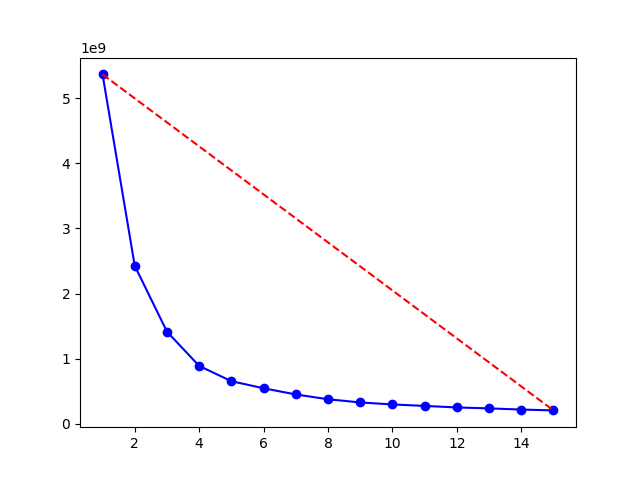
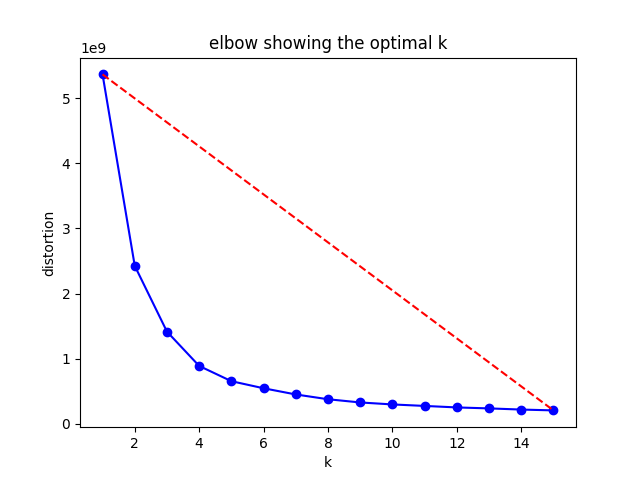
k elbow algorithm impl

Changed region(s): [[0.3125, 0.0625, 0.6875, 0.125], [0.0625, 0.4375, 0.0938, 0.5938], [0.5, 0.9375, 0.5312, 0.9688]]

diff --git a/cw/utils/elbow_k.py b/cw/utils/elbow_k.py
@@ -3,15 +3,15 @@
 
 import cv2
 import numpy as np
+import numpy.matlib
 import matplotlib.pyplot as plt
 
 image_path = '/Users/jstroop/workspace/colorweight/samples/01_in.jpg'
 
-CRITERIA = (cv2.TERM_CRITERIA_EPS + cv2.TERM_CRITERIA_MAX_ITER, 200, 1.0)
+CRITERIA = (cv2.TERM_CRITERIA_EPS + cv2.TERM_CRITERIA_MAX_ITER, 200, 1.0) # consider 1.0; may want lower?
 FLAGS = cv2.KMEANS_RANDOM_CENTERS
 
-def cluster(pixels, k):
-     return cv2.kmeans(pixels, k, None, CRITERIA, 10, FLAGS)
+K_MAX = 16 # higher (16?) for real use
 
 image_data = cv2.imread(image_path)
 arr = np.float32(image_data) # a 3d ndarray
@@ -19,17 +19,49 @@ pixels = arr.reshape((-1, 3))
 
 data = []
 
-for k in range(1, 16):
-    compactness, labels, centroids = cluster(pixels, k)
+for k in range(1, K_MAX+1):
+    compactness, labels, centroids = cv2.kmeans(pixels, k, None, CRITERIA, 10, FLAGS)
     data.append((k, compactness))
 
+def show_elbow(data):
+    ks = [e[0] for e in data]
+    dist = [e[1] for e in data]
+    plt.plot(ks, dist, 'bo-')
+    plt.plot((ks[0], ks[-1]), (dist[0], dist[-1]), 'r--')
+    plt.xlabel('k')
+    plt.ylabel('distortion')
+    plt.title('elbow showing the optimal k')
+    plt.show()
 
-ks = [e[0] for e in data]
-dist = [e[1] for e in data]
-plt.plot(ks, dist, 'bo-')
-plt.plot((ks[0], ks[-1]), (dist[0], dist[-1]), 'r--')
-plt.xlabel = 'K values'
-plt.ylabel = 'Distortions'
-plt.show()
+def find_best_k_index(dist_curve, debug=False):
+    # See: https://en.wikipedia.org/wiki/Vector_projection
+    # and: https://stackoverflow.com/a/37121355/714478
+    n_points = len(dist_curve) # could this be the ks instead?
+    all_coords = np.vstack((range(n_points), dist_curve)).T
+    np.array([range(n_points), dist_curve])
+    first_point = all_coords[0]
+    line_vector = all_coords[-1] - first_point
+    line_vector_norm = line_vector / np.sqrt(np.sum(line_vector**2))
+    vector_from_first = all_coords - first_point
+    scalar_prod = np.sum(vector_from_first * np.matlib.repmat(line_vector_norm, n_points, 1), axis=1)
+    vector_from_first_parallel = np.outer(scalar_prod, line_vector_norm)
+    vector_to_line = vector_from_first - vector_from_first_parallel
+    dist_to_line = np.sqrt(np.sum(vector_to_line ** 2, axis=1))
+    index_of_best_point = np.argmax(dist_to_line)
+    if debug:
+        print(f'Distortion curve: {dist_curve}')
+        print(f'All coords: {all_coords}')
+        print(f'First point: {first_point}')
+        print(f'Line vector: {line_vector}')
+        print(f'Line vector normalized: {line_vector_norm}')
+        print(f'Vector from first: {vector_from_first}')
+        print(f'Scalar product: {scalar_prod}')
+        print(f'Vector from first parallel: {vector_from_first_parallel}')
+        print(f'Vector to line: {vector_to_line}')
+        print(f'Distance to line: {dist_to_line}')
+        print(f'Index of best K: {index_of_best_point}')
+    return index_of_best_point
 
-# TODO: use this to find the label: https://stackoverflow.com/a/37121355/714478
+dist_curve = [e[1] for e in data]
+best_k_index = find_best_k_index(dist_curve)
+print(f'Best K: {data[best_k_index]}')
